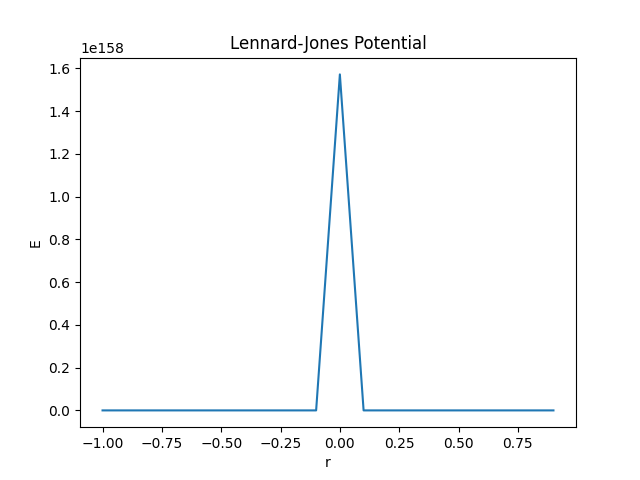
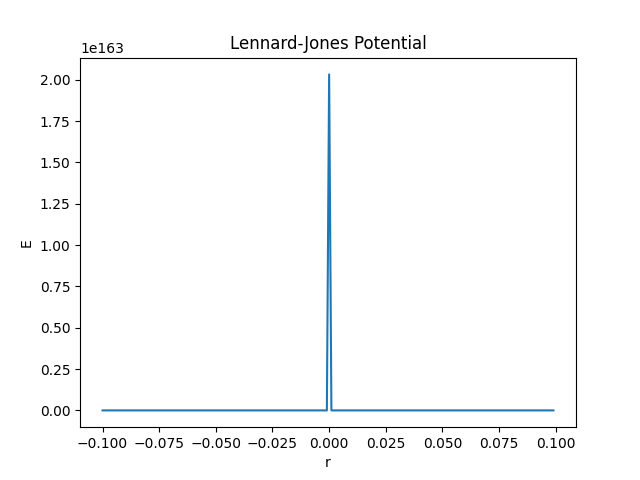
new parameters

diff --git a/src/plot.py b/src/plot.py
@@ -6,7 +6,7 @@ from lennard_jones import lennard_jones
 epsilon = 1.66e-21
 sigma = 3.4e-10
 
-x = np.arange(-1, 1, 0.1)
+x = np.arange(-0.1, 0.1, 0.001)
 
 plt.plot(x, lennard_jones(x, epsilon, sigma))
 plt.xlabel('r')
